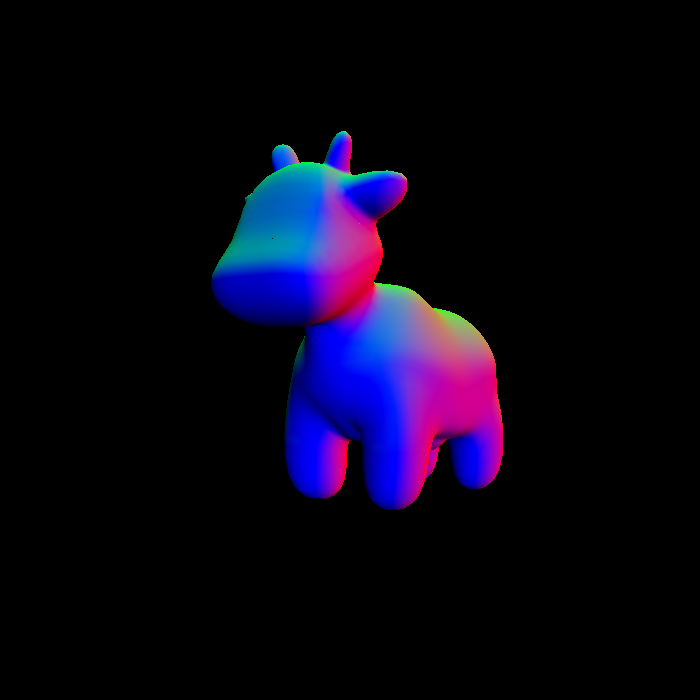
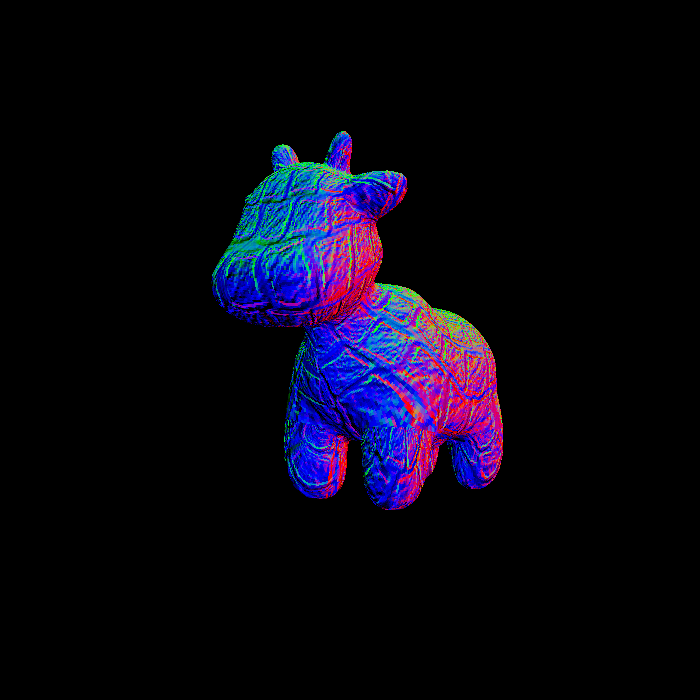
update shading

Changed region(s): [[0.3, 0.18, 0.72, 0.75]]

diff --git a/Homework3/Assignment3/main.cpp b/Homework3/Assignment3/main.cpp
@@ -128,6 +128,7 @@ Eigen::Vector3f texture_fragment_shader(const fragment_shader_payload& payload)
 
     Eigen::Vector3f result_color = {0, 0, 0};
 
+    result_color += ka.cwiseProduct(amb_light_intensity);
     for (auto& light : lights)
     {
         // TODO: For each light source in the code, calculate what the *ambient*, *diffuse*, and *specular* 
@@ -135,7 +136,6 @@ Eigen::Vector3f texture_fragment_shader(const fragment_shader_payload& payload)
         Eigen::Vector3f l = (light.position - point).normalized();
         Eigen::Vector3f v = (eye_pos - point).normalized();
         Eigen::Vector3f h = (l + v).normalized();
-        result_color += ka.cwiseProduct(amb_light_intensity);
         result_color += kd.cwiseProduct(light.intensity / (light.position - point).squaredNorm()) * std::max(0.f, normal.dot(l));
         result_color += ks.cwiseProduct(light.intensity / (light.position - point).squaredNorm()) * std::pow(std::max(0.f, normal.dot(h)), p);
     }
@@ -162,13 +162,13 @@ Eigen::Vector3f phong_fragment_shader(const fragment_shader_payload& payload)
     Eigen::Vector3f point = payload.view_pos;
     Eigen::Vector3f normal = payload.normal;
 
-    Eigen::Vector3f result_color = {0, 0, 0};
+    Eigen::Vector3f result_color = { 0, 0, 0 };
+	result_color += ka.cwiseProduct(amb_light_intensity);
     for (auto& light : lights)
     {
 		Eigen::Vector3f l = (light.position - point).normalized();
 		Eigen::Vector3f v = (eye_pos - point).normalized();
 		Eigen::Vector3f h = (l + v).normalized();
-		result_color += ka.cwiseProduct(amb_light_intensity);
 		result_color += kd.cwiseProduct(light.intensity / (light.position - point).squaredNorm()) * std::max(0.f, normal.dot(l));
 		result_color += ks.cwiseProduct(light.intensity / (light.position - point).squaredNorm()) * std::pow(std::max(0.f, normal.dot(h)), p);
         // TODO: For each light source in the code, calculate what the *ambient*, *diffuse*, and *specular* 
@@ -238,7 +238,7 @@ Eigen::Vector3f displacement_fragment_shader(const fragment_shader_payload& payl
     normal = (TBN * ln).normalized();
 
     Eigen::Vector3f result_color = {0, 0, 0};
-
+    result_color += ka.cwiseProduct(amb_light_intensity);
     for (auto& light : lights)
     {
         // TODO: For each light source in the code, calculate what the *ambient*, *diffuse*, and *specular* 
@@ -246,7 +246,6 @@ Eigen::Vector3f displacement_fragment_shader(const fragment_shader_payload& payl
         Eigen::Vector3f l = (light.position - point).normalized();
         Eigen::Vector3f v = (eye_pos - point).normalized();
         Eigen::Vector3f h = (l + v).normalized();
-        result_color += ka.cwiseProduct(amb_light_intensity);
         result_color += kd.cwiseProduct(light.intensity / (light.position - point).squaredNorm()) * std::max(0.f, normal.dot(l));
         result_color += ks.cwiseProduct(light.intensity / (light.position - point).squaredNorm()) * std::pow(std::max(0.f, normal.dot(h)), p);
 
@@ -292,8 +291,10 @@ Eigen::Vector3f bump_fragment_shader(const fragment_shader_payload& payload)
     float x = normal.x();
     float y = normal.y();
     float z = normal.z();
-    Vector3f t(x * y / sqrt(x * x + z * z), sqrt(x * x + z * z), z * y / sqrt(x * x + z * z));
+    Vector3f t(-x * y / sqrt(x * x + z * z), sqrt(x * x + z * z), -z * y / sqrt(x * x + z * z));
+	t.normalize();
     Vector3f b = normal.cross(t);
+	b.normalize();
 
     Matrix3f TBN;
     TBN << t.x(), b.x(), x,
@@ -313,7 +314,6 @@ Eigen::Vector3f bump_fragment_shader(const fragment_shader_payload& payload)
 
     Eigen::Vector3f result_color = {0, 0, 0};
     result_color = normal;
-
     return result_color * 255.f;
 }
 
